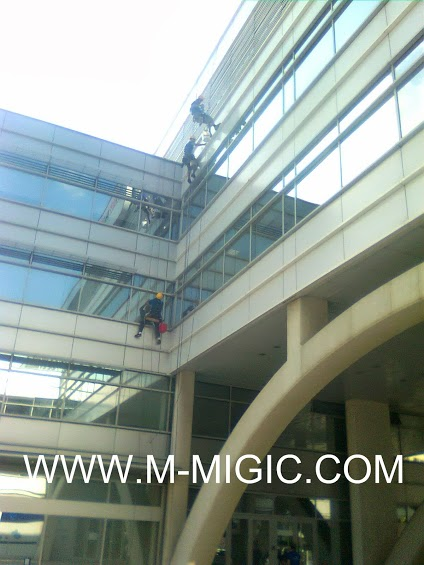
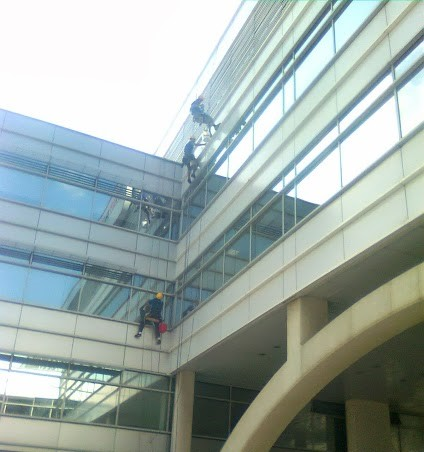
.

diff --git a/components/About2.tsx b/components/About2.tsx
@@ -40,7 +40,7 @@ const About2 = () => {
           className="rounded-3xl overflow-hidden  md:w-1/3"
         >
           <Image
-            src={"/slika0949.webp"}
+            src={"/alpinizam (15).jpg"}
             width={500}
             height={800}
             alt="industrijski alpinizam"

diff --git a/constants/index.ts b/constants/index.ts
@@ -310,12 +310,6 @@ export const cards2Data2: Cards2Data[] = [
     text: "",
   },
   {
-    id: 5,
-    icon: GiWeight,
-    title: "- Pranje i farbanje krovova.",
-    text: "",
-  },
-  {
     id: 6,
     icon: GiWeight,
     title: "- Orezivanje grana, krošanja i drveća",
